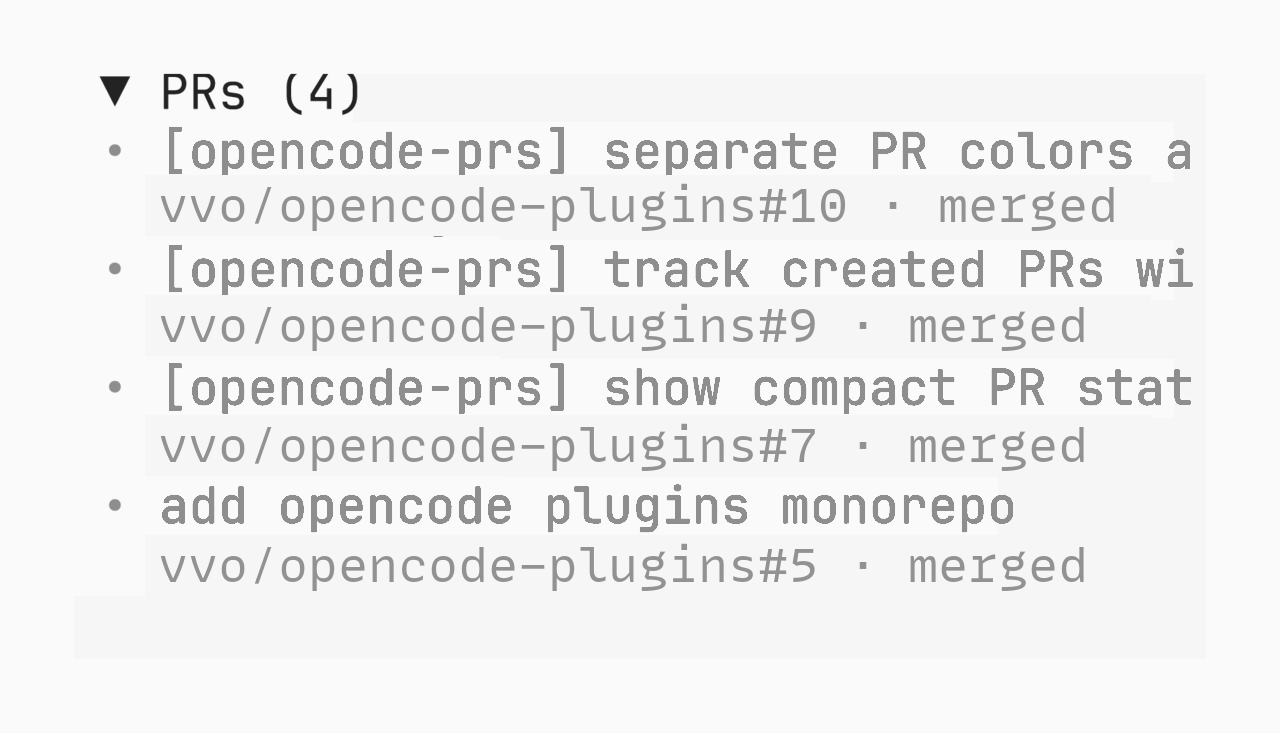
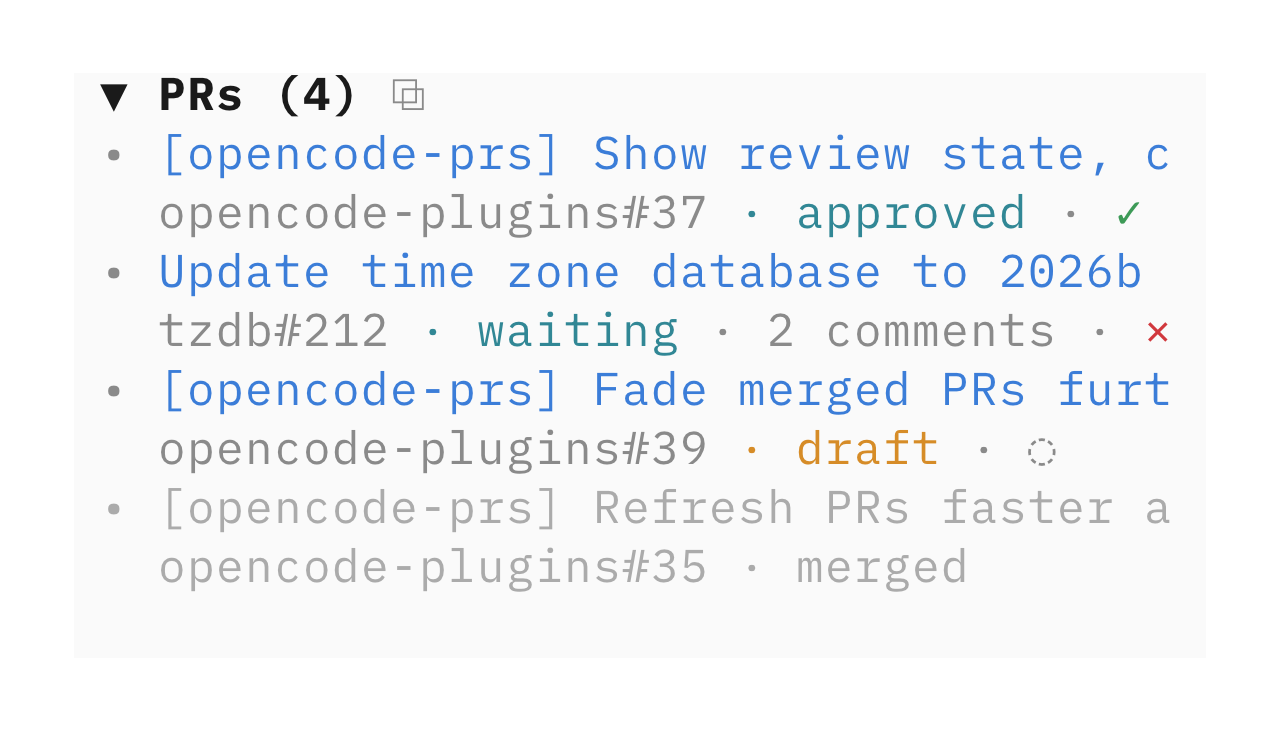
update opencode-prs screenshots and add a generator script

diff --git a/scripts/screenshots/prs.py b/scripts/screenshots/prs.py
@@ -1,0 +1,277 @@
+#!/usr/bin/env python3
+"""Regenerate the opencode-prs README assets from a live OpenCode 2 TUI.
+
+    pnpm build
+    python3 scripts/screenshots/prs.py            # both themes
+    python3 scripts/screenshots/prs.py dark       # one theme
+
+Needs: opencode2 (background service running), tmux, Google Chrome, ImageMagick
+(`magick`), gifsicle. Python 3 standard library only.
+
+How it works:
+1. Imports a fake session whose transcript contains four `gh pr create` shell
+   calls, so the sidebar lists four PRs. `scripts/screenshots/gh` shadows the
+   real `gh` on PATH and answers `gh pr view` / GraphQL with canned data that
+   covers approved + checks passing, waiting + comments + checks failing,
+   draft + checks pending, and merged.
+2. Starts `opencode2 --session ...` inside a detached tmux pane with a private
+   XDG_CONFIG_HOME so the theme mode and plugin list do not touch ~/.config.
+3. Captures the pane with `tmux capture-pane -e` (keeps the SGR colors), then
+   injects SGR mouse-motion events at the first title so the real hover
+   marquee runs, sampling one capture per marquee step.
+4. Renders each capture to a 1280x733 PNG with headless Chrome: IBM Plex Mono
+   from Google Fonts, 29px cells, 59px lines, panel at (74,73), same geometry
+   as the earlier hand-made assets. A cursor SVG is placed on the lower half
+   of the first title for the animation frames.
+5. Assembles the GIF: 1.1s rest, 120ms per marquee step, 2.1s rest, plays once.
+
+Outputs assets/prs-<mode>.png and assets/prs-hover-<mode>-v3.gif.
+Bump the gif suffix (and the README references) when the animation changes:
+GitHub caches by filename.
+"""
+import glob, html, json, os, re, shutil, subprocess, sys, tempfile, time
+
+HERE = os.path.dirname(os.path.abspath(__file__))
+ROOT = os.path.dirname(os.path.dirname(HERE))
+ASSETS = os.path.join(ROOT, "assets")
+PLUGIN = os.path.join(ROOT, "packages/prs/dist")
+SESSION = "ses_screenshots0000000000prs"
+GIF_SUFFIX = "v3"
+CHROME = "/Applications/Google Chrome.app/Contents/MacOS/Google Chrome"
+
+PR_URLS = [  # order of creation, sidebar sorts them itself
+    "https://github.com/vvo/opencode-plugins/pull/35",
+    "https://github.com/vvo/opencode-plugins/pull/39",
+    "https://github.com/vvo/tzdb/pull/212",
+    "https://github.com/vvo/opencode-plugins/pull/37",
+]
+FIRST_TITLE = "[opencode-prs] Show"   # top row after sorting, gets hovered
+LAST_META = "#35 · merged"            # bottom row, proves everything rendered
+
+# Render geometry (matches the previous assets)
+COLS, ROWS = 38, 10
+CELL_W, CELL_H = 29, 59
+PAD_X, PAD_Y = 74, 73
+FONT_PX = 46
+PANEL_W = 1132
+CURSOR = (20.4, 1.55)  # cell units from the "▼": lower half of the first title
+CURSOR_SVG = """<svg xmlns="http://www.w3.org/2000/svg" width="28" height="42" viewBox="0 0 14 21">
+<path d="M1 1 L1 16 L4.6 12.6 L7.4 19.2 L10 18.1 L7.3 11.6 L12.2 11.6 Z" fill="#fff" stroke="#000" stroke-width="1.1" stroke-linejoin="round"/>
+</svg>"""
+
+SGR = re.compile(r"\x1b\[([0-9;]*)m")
+OSC = re.compile(r"\x1b\]8;[^\x1b]*\x1b\\")
+TMUX = ["tmux", "-L", "opencode-shots"]
+
+
+def run(*args, **kw):
+    return subprocess.run(list(args), check=True, capture_output=True, text=True, **kw).stdout
+
+
+def tmux(*args):
+    return run(*TMUX, *args)
+
+
+def import_session(work):
+    base = int(time.time() * 1000)
+    messages = [{"id": "msg_screenshots000000000000u", "time": {"created": base}, "text": "Open the PRs",
+                 "files": [], "agents": [], "type": "user"}]
+    for i, url in enumerate(PR_URLS):
+        t = base + 1000 * (i + 1)
+        messages.append({
+            "id": f"msg_screenshots00000000000a{i}", "time": {"created": t, "completed": t + 500},
+            "type": "assistant", "agent": "build",
+            "model": {"id": "anthropic/claude-sonnet-4", "providerID": "anthropic"},
+            "content": [{
+                "type": "tool", "id": f"toolu_screenshots{i}", "name": "shell", "executed": False,
+                "time": {"created": t, "ran": t + 10, "completed": t + 400},
+                "state": {"status": "completed",
+                          "input": {"command": "gh pr create --fill", "workdir": work},
+                          "content": [{"type": "text", "text": url + "\n"}]},
+            }],
+            "finish": "tool-calls",
+        })
+    doc = {"info": {"id": SESSION, "projectID": "screenshots", "agent": "build",
+                    "model": {"id": "anthropic/claude-sonnet-4", "providerID": "anthropic"},
+                    "cost": 0, "tokens": {"input": 0, "output": 0, "reasoning": 0, "cache": {"read": 0, "write": 0}},
+                    "outcome": "succeeded", "time": {"created": base, "updated": base},
+                    "title": "opencode-prs screenshots", "location": {"directory": work}},
+           "messages": messages}
+    path = os.path.join(work, "session.json")
+    json.dump(doc, open(path, "w"), indent=1)
+    subprocess.run(["opencode2", "api", "delete", f"/api/session/{SESSION}"], capture_output=True)
+    run("opencode2", "import", "--directory", work, path)
+
+
+def write_launcher(work, mode):
+    xdg = os.path.join(work, "xdg", "opencode")
+    os.makedirs(xdg, exist_ok=True)
+    json.dump({
+        "$schema": "https://opencode.ai/v2/cli.json",
+        "theme": {"name": "opencode", "mode": mode},
+        "plugins": ["-opencode.sidebar.context", PLUGIN],
+        "tabs": {"enabled": False},
+        "attention": {"notifications": False, "sound": False},
+    }, open(os.path.join(xdg, "cli.json"), "w"), indent=2)
+    launcher = os.path.join(work, f"launch-{mode}.sh")
+    open(launcher, "w").write(f"""#!/bin/sh
+export PATH="{HERE}:$PATH"
+export XDG_CONFIG_HOME="{os.path.join(work, 'xdg')}"
+cd "{work}"
+exec opencode2 --session {SESSION}
+""")
+    os.chmod(launcher, 0o755)
+    return launcher
+
+
+def capture_frames(launcher, outdir):
+    os.makedirs(outdir, exist_ok=True)
+    subprocess.run(TMUX + ["kill-server"], capture_output=True)
+    tmux("new-session", "-d", "-s", "shots", "-x", "160", "-y", "45", f"{launcher}; sleep 600")
+    plain = lambda: tmux("capture-pane", "-t", "shots", "-p").split("\n")
+    styled = lambda: tmux("capture-pane", "-t", "shots", "-p", "-e")
+    for _ in range(60):
+        time.sleep(0.5)
+        rows = plain()
+        if any("PRs (4)" in r for r in rows) and any(LAST_META in r for r in rows):
+            break
+    else:
+        sys.exit("sidebar did not render, is the background service up and the plugin built?")
+    time.sleep(1.5)
+    rows = plain()
+    row = next(i for i, r in enumerate(rows) if FIRST_TITLE in r) + 1
+    col = rows[row - 1].index(FIRST_TITLE) + 1
+    open(os.path.join(outdir, "still.ansi"), "w").write(styled())
+
+    # two SGR mouse-motion events on the title, then wait past the 500ms hover delay
+    for dx in (16, 17):
+        tmux("send-keys", "-t", "shots", "-l", f"\x1b[<35;{col + dx};{row}M")
+        time.sleep(0.1)
+    time.sleep(0.5)
+    frames = []
+    deadline = time.time() + 15
+    while time.time() < deadline:
+        snap = styled()
+        key = snap.split("\n")[row - 1]
+        if not frames or key != frames[-1][0]:
+            frames.append((key, snap))
+        if len(frames) > 3 and key == frames[0][0]:
+            break
+        time.sleep(0.06)
+    subprocess.run(TMUX + ["kill-server"], capture_output=True)
+    for i, (_, snap) in enumerate(frames):
+        open(os.path.join(outdir, f"frame-{i:02d}.ansi"), "w").write(snap)
+    return len(frames)
+
+
+def parse_cells(line):
+    fg = bg = None
+    bold = False
+    cells = []
+    pos = 0
+    line = OSC.sub("", line)
+    while pos < len(line):
+        m = SGR.match(line, pos)
+        if m:
+            params = [int(p) for p in m.group(1).split(";") if p] or [0]
+            i = 0
+            while i < len(params):
+                p = params[i]
+                if p == 0: fg = bg = None; bold = False
+                elif p == 1: bold = True
+                elif p == 22: bold = False
+                elif p == 39: fg = None
+                elif p == 49: bg = None
+                elif p in (38, 48) and params[i + 1:i + 2] == [2]:
+                    color = "#%02x%02x%02x" % tuple(params[i + 2:i + 5])
+                    if p == 38: fg = color
+                    else: bg = color
+                    i += 4
+                i += 1
+            pos = m.end()
+            continue
+        if line[pos] != "\x1b":
+            cells.append((line[pos], fg, bg, bold))
+        pos += 1
+    return cells
+
+
+def to_html(capture, cursor):
+    lines = [parse_cells(l) for l in open(capture, encoding="utf8").read().split("\n")]
+    header = next(i for i, l in enumerate(lines) if "PRs (" in "".join(c[0] for c in l))
+    text = "".join(c[0] for c in lines[header])
+    col0 = text.index("▼")
+    panel_bg = lines[header][col0][2]
+    page_bg = lines[header][col0 - 3][2]
+
+    def span(ch, fg, bg, bold):
+        style = ";".join(filter(None, [f"color:{fg}" if fg else "", "font-weight:700" if bold else ""]))
+        return f'<span style="{style}">{html.escape(ch)}</span>' if style else html.escape(ch)
+
+    body = []
+    for row in lines[header:header + ROWS]:
+        cells = row[col0:col0 + COLS]
+        cells += [(" ", None, panel_bg, False)] * (COLS - len(cells))
+        body.append("".join(span(*c) for c in cells))
+    cursor_html = ""
+    if cursor:
+        x, y = PAD_X + cursor[0] * CELL_W, PAD_Y + cursor[1] * CELL_H
+        cursor_html = f'<img src="cursor.svg" style="position:absolute;left:{x:.0f}px;top:{y:.0f}px;width:28px;height:42px">'
+    return f"""<!doctype html><html><head><meta charset="utf-8">
+<link href="https://fonts.googleapis.com/css2?family=IBM+Plex+Mono:wght@400;700&display=swap" rel="stylesheet">
+<style>
+html,body{{margin:0;background:{page_bg};width:1280px;height:733px;overflow:hidden}}
+#panel{{position:absolute;left:{PAD_X}px;top:{PAD_Y}px;width:{PANEL_W}px;height:{ROWS * CELL_H - 5}px;background:{panel_bg}}}
+pre{{position:absolute;left:{PAD_X + 26}px;top:{PAD_Y - 9}px;margin:0;color:{panel_bg};letter-spacing:{CELL_W - FONT_PX * 0.6}px;
+    font:400 {FONT_PX}px/{CELL_H}px 'IBM Plex Mono',monospace;-webkit-font-smoothing:antialiased;white-space:pre}}
+</style></head><body><div id="panel"></div><pre>{chr(10).join(body)}</pre>{cursor_html}</body></html>"""
+
+
+def render(captures, outdir, cursor=None):
+    os.makedirs(outdir, exist_ok=True)
+    open(os.path.join(outdir, "cursor.svg"), "w").write(CURSOR_SVG)
+    pngs = []
+    for capture in captures:
+        name = os.path.splitext(os.path.basename(capture))[0]
+        page = os.path.join(outdir, f"{name}.html")
+        open(page, "w", encoding="utf8").write(to_html(capture, cursor))
+        png = os.path.join(outdir, f"{name}.png")
+        run(CHROME, "--headless=new", "--disable-gpu", "--hide-scrollbars", "--virtual-time-budget=5000",
+            "--force-device-scale-factor=1", "--window-size=1280,733", f"--screenshot={png}", f"file://{page}")
+        pngs.append(png)
+    return pngs
+
+
+def build(mode, work):
+    print(f"[{mode}] capturing")
+    launcher = write_launcher(work, mode)
+    cap = os.path.join(work, f"cap-{mode}")
+    count = capture_frames(launcher, cap)
+    print(f"[{mode}] rendering still + {count} frames")
+    out = os.path.join(work, f"out-{mode}")
+    still = render([os.path.join(cap, "still.ansi")], out)[0]
+    rest = render([os.path.join(cap, "still.ansi")], os.path.join(out, "rest"), CURSOR)[0]
+    frames = render(sorted(glob.glob(os.path.join(cap, "frame-*.ansi"))), os.path.join(out, "hover"), CURSOR)
+    png = os.path.join(ASSETS, f"prs-{mode}.png")
+    gif = os.path.join(ASSETS, f"prs-hover-{mode}-{GIF_SUFFIX}.gif")
+    shutil.copy(still, png)
+    run("magick", "-dispose", "none", "-delay", "112", rest, "-delay", "12", *frames, "-delay", "212", rest,
+        "-loop", "1", "-layers", "optimize", gif)
+    run("gifsicle", "--batch", "-O3", gif)
+    print(f"[{mode}] wrote {png} and {gif}")
+
+
+def main():
+    modes = sys.argv[1:] or ["light", "dark"]
+    if not os.path.isdir(PLUGIN):
+        sys.exit("packages/prs/dist missing, run pnpm build first")
+    work = tempfile.mkdtemp(prefix="opencode-prs-shots-")
+    print(f"work dir {work}")
+    import_session(work)
+    for mode in modes:
+        build(mode, work)
+    subprocess.run(["opencode2", "api", "delete", f"/api/session/{SESSION}"], capture_output=True)
+
+
+if __name__ == "__main__":
+    main()

diff --git a/packages/prs/README.md b/packages/prs/README.md
@@ -3,11 +3,11 @@
 [OpenCode](https://opencode.ai) TUI plugin that lists GitHub pull requests opened by the current session.
 
 <picture>
-  <source media="(prefers-color-scheme: dark)" srcset="../../assets/prs-hover-dark-v2.gif">
-  <img src="../../assets/prs-hover-light-v2.gif" alt="Pull request titles scrolling on hover in the OpenCode sidebar" width="640">
+  <source media="(prefers-color-scheme: dark)" srcset="../../assets/prs-hover-dark-v3.gif">
+  <img src="../../assets/prs-hover-light-v3.gif" alt="Pull request titles scrolling on hover in the OpenCode sidebar" width="640">
 </picture>
 
-The sidebar section is collapsible. Each pull request uses a full-width linked title with its muted `owner/repository#number` and colored status below. Open pull requests show `✓` when approved or `⏳` while waiting for review. Merged pull requests use subdued colors so open work stays prominent. Hover a clipped title to scroll through its full text once. Select `⧉` to copy a Slack-ready PR summary and confirm it with a toast.
+The sidebar section is collapsible. Each pull request uses a full-width linked title with its muted `repository#number` and colored status below: `approved` or `waiting` for open pull requests, `draft`, or `merged`. Open pull requests also show unresolved review comments and a checks indicator: `✓` passing, `×` failing, `◌` pending. Merged pull requests use subdued colors so open work stays prominent. Hover a clipped title to scroll through its full text once. Click a status line to copy that PR as a Slack-ready summary, or `⧉` in the header to copy the whole list, confirmed with a toast.
 
 ## Install
 

diff --git a/AGENTS.md b/AGENTS.md
@@ -19,7 +19,10 @@ This repository publishes independent OpenCode TUI plugins from `packages/`.
 ## Screenshots
 
 - Update the light and dark `opencode-prs` screenshots and hover GIFs when its visible output changes.
-- Keep `assets/prs-light.png`, `assets/prs-dark.png`, `assets/prs-hover-light-v2.gif`, and `assets/prs-hover-dark-v2.gif` in sync with the current UI.
+- Keep `assets/prs-light.png`, `assets/prs-dark.png`, `assets/prs-hover-light-v3.gif`, and `assets/prs-hover-dark-v3.gif` in sync with the current UI.
+- Regenerate them with `pnpm build && python3 scripts/screenshots/prs.py`. It needs the OpenCode 2 background service, `tmux`, Google Chrome, `magick`, and `gifsicle`. It imports a fake session, runs the real TUI in tmux with a private `XDG_CONFIG_HOME`, shadows `gh` with `scripts/screenshots/gh` for canned PR data, injects mouse motion for the hover marquee, and renders the captured cells through headless Chrome with IBM Plex Mono. The script docstring has the details.
+- Change the PR mix in `scripts/screenshots/gh` (one PR per visible state, keep it to four rows). Bump `GIF_SUFFIX` in `prs.py` and the README references when the animation changes: GitHub caches GIFs by filename.
+- The cursor in the GIF sits on the lower half of the first title, slightly right of center (`CURSOR` in `prs.py`). Keep it there.
 
 ## Plugin compatibility
 

diff --git a/README.md b/README.md
@@ -25,8 +25,8 @@ Shows GitHub pull requests opened by the current session. Every title links to G
 
 <a href="packages/prs">
   <picture>
-    <source media="(prefers-color-scheme: dark)" srcset="assets/prs-hover-dark-v2.gif">
-    <img src="assets/prs-hover-light-v2.gif" alt="Pull requests opened by an OpenCode session" width="640">
+    <source media="(prefers-color-scheme: dark)" srcset="assets/prs-hover-dark-v3.gif">
+    <img src="assets/prs-hover-light-v3.gif" alt="Pull requests opened by an OpenCode session" width="640">
   </picture>
 </a>
 
